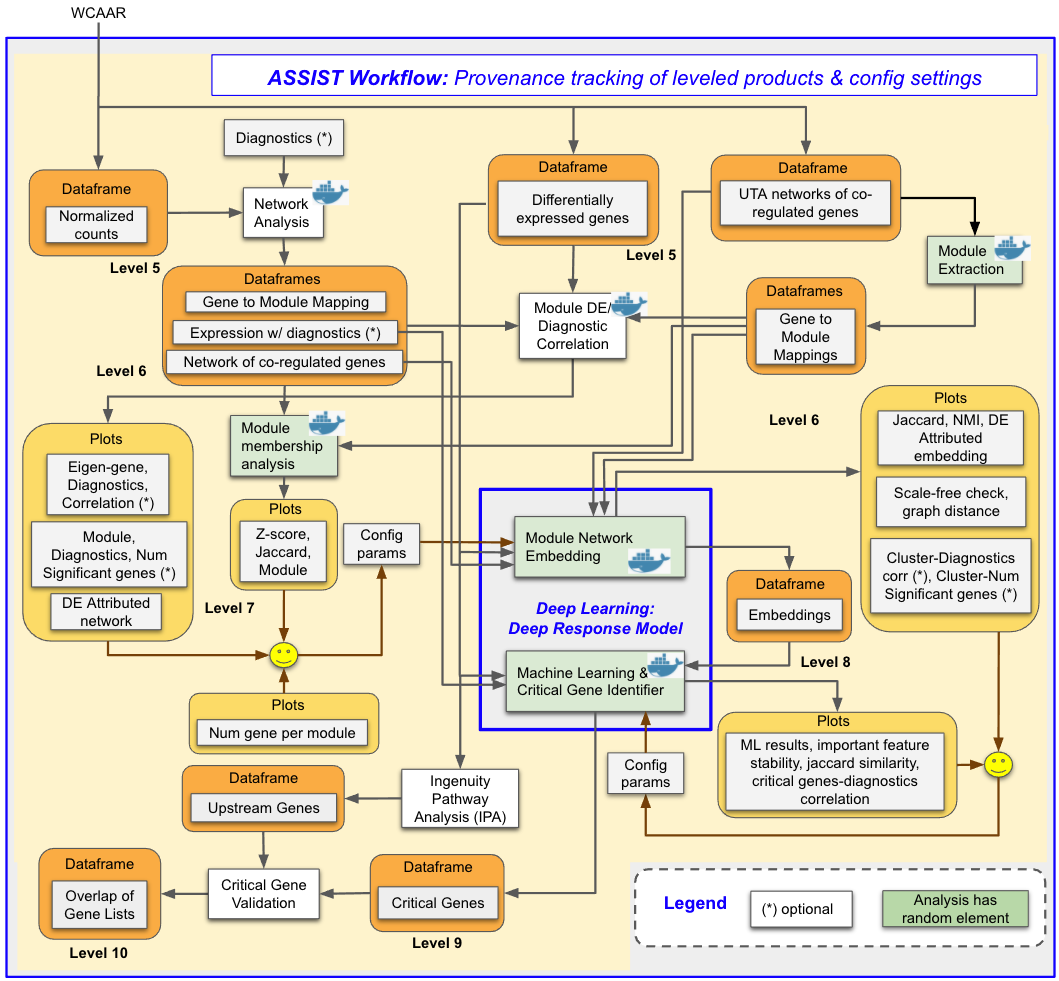
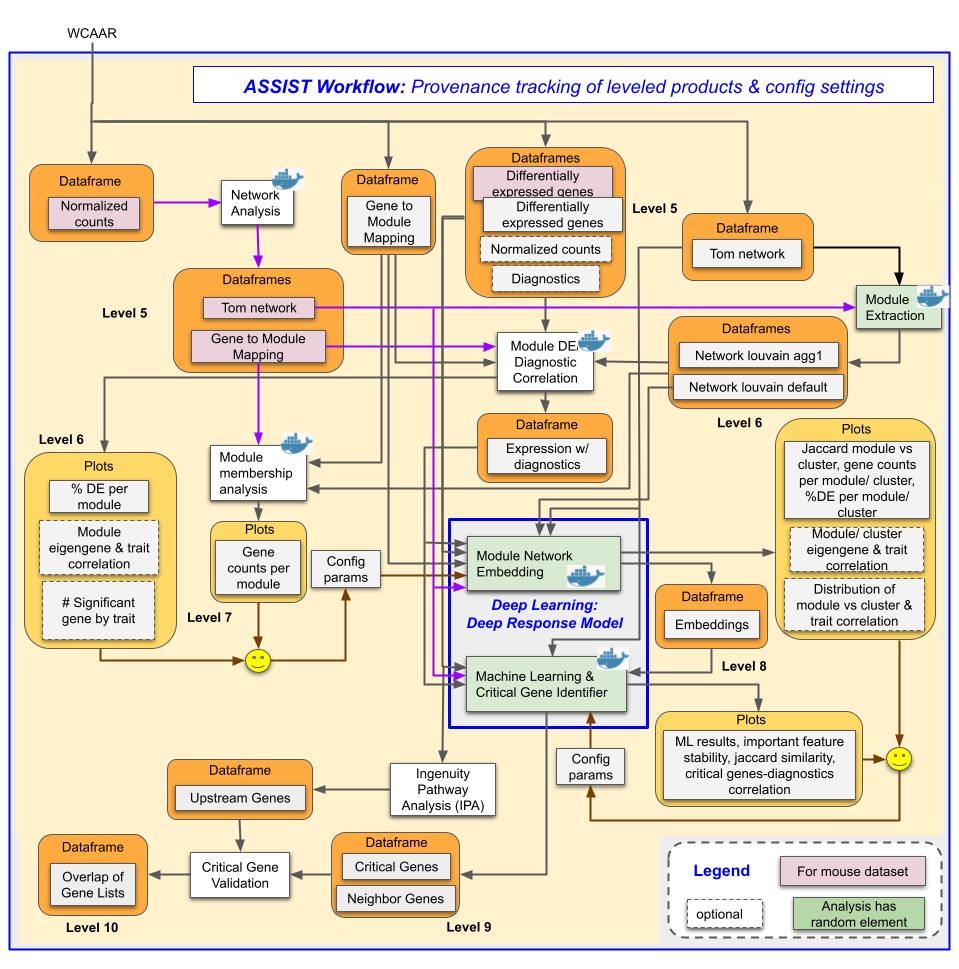
updated description and conceptual workflow diagram

diff --git a/README.md b/README.md
@@ -30,9 +30,9 @@ Below we describe how to set up and run the ASSIST analysis modules in three dif
 Jupyter notebooks for ASSIST analysis modules are included to allow researchers to test out the analysis code using the Jupyter notebook interface. The `notebooks` folder contains requirements files capturing software dependencies for the three notebooks included. Corresponding requirement file is loaded into each notebook at the beginning.
 
 ### 2. How to launch containers for each analysis module
-Before analysis modules can be launched through standalone containers, the corresponding images need to be loaded. You can either use the included Makefile to generate the corresponding images or download the compressed image tarball from the `images/standalone` folder, unpack it to the `images/standalone` subfolder under this project and load them using:
+Before analysis modules can be launched through standalone containers, the corresponding images need to be loaded. You can either use the included Makefile to generate the corresponding images, or download them from https://www.dropbox.com/sh/uajkuclelr409e3/AAC0hwI47Ssz8I_FeOH8Pplca/data?dl=0&subfolder_nav_tracking=1 in the `images/standalone` folder, unpack it to the `images/standalone` subfolder under this project, and load them using:
 ```
-docker load --input <path to the image tar file>
+make load-standalone-images
 ```
 The analysis modules are meant to be launched in sequence in the order listed in the above table and there are configuration files in the config folder specifying all input files needed to launch the module and where the module will be generating its output files and plots. Before choosing an analysis module to execute, make sure all the input data specified in the corresponding config file are available.
 
@@ -40,18 +40,52 @@ There is a script called launch.py under the scripts folder that can be used to 
 
 ### 3. How to run ASSIST modules in a workflow using ADE
 
-Follow [ADE documentation] (./ade/doc/README.md)
-
 #### Prepare ADE runtime environment
+Download ade_runtime.tgz from https://www.dropbox.com/sh/uajkuclelr409e3/AAC0hwI47Ssz8I_FeOH8Pplca/data?dl=0&subfolder_nav_tracking=1 into the project root folder and unpack using:
+```
+tar zxvf ade_runtime.tgz
+```
+This command will create the following folder structure under the project:
+```
+ade
+├── bin
+│   ├── launcher.bat
+│   └── launcher.sh
+├── create_node_docker_image.py
+├── doc
+│   ├── README.md
+│   ├── action_props.gif
+│   ├── connect.gif
+│   ├── disconnect.gif
+│   ├── doc_props.gif
+│   ├── docker_props.png
+│   ├── dynamic_props.gif
+│   ├── export_data.gif
+│   ├── launch.gif
+│   ├── new_node.gif
+│   ├── persist.gif
+│   ├── remove_node.gif
+│   ├── scroll_props.gif
+│   ├── view_data.gif
+│   ├── view_props.gif
+│   └── workflow.png
+└── repo
+    ├── FastInfoset-1.2.16.jar
+    ├── ST4-4.0.8.jar
+    ├── ade-backend-1.0.0-SNAPSHOT.jar
+    ├── ade-frontend-1.0.0-SNAPSHOT.jar
+    ├── ade-launcher-1.0.0-SNAPSHOT.jar
+...
+```
 
-#### Create a workflow module in ADE
 
-#### Integrate workflow modules in ADE
+#### Use ADE to run analysis workflow
+Use the launch script (```launch.bat``` or ```launch.sh```) to start up the ADE workflow user interface. There are ready made workflows for both human and mouse under the workflows folder that can be loaded into the user interface.
 
-#### How to navigate in ADE
+Follow [ADE documentation] (./ade/doc/README.md) that provides detailed description on the ADE user interface.
 
 
-For each of the analysis modules below, include detailed description on input data (file name, file content, columns the module cares about), what the analysis does about the input data, and what the output the module generates. This can include snapshots of sample dataframes and plots.
+#### Detailed description of analysis modules
 
 ## For all the input/output data below, ```Human``` means it's for the human example data (Kapoor et al 2019). ```Mouse``` means it's for the mouse example data (Ferguson et al 2019).
 The difference is because the two example datasets (Kapoor and HDID) we used had difference in the availability of the data. For example, ```TOM co-expression network``` and ```gene module assignment by WGCNA hierarchical clustering``` for the human data were provided to us but not available for the mouse data so the ```Network Analysis``` had to be run to construct these two files for the mouse. ```subjects' alcohol metadata``` was only available for the human data so all the analyses that involve diagnostics were skipped for the mouse data. 
